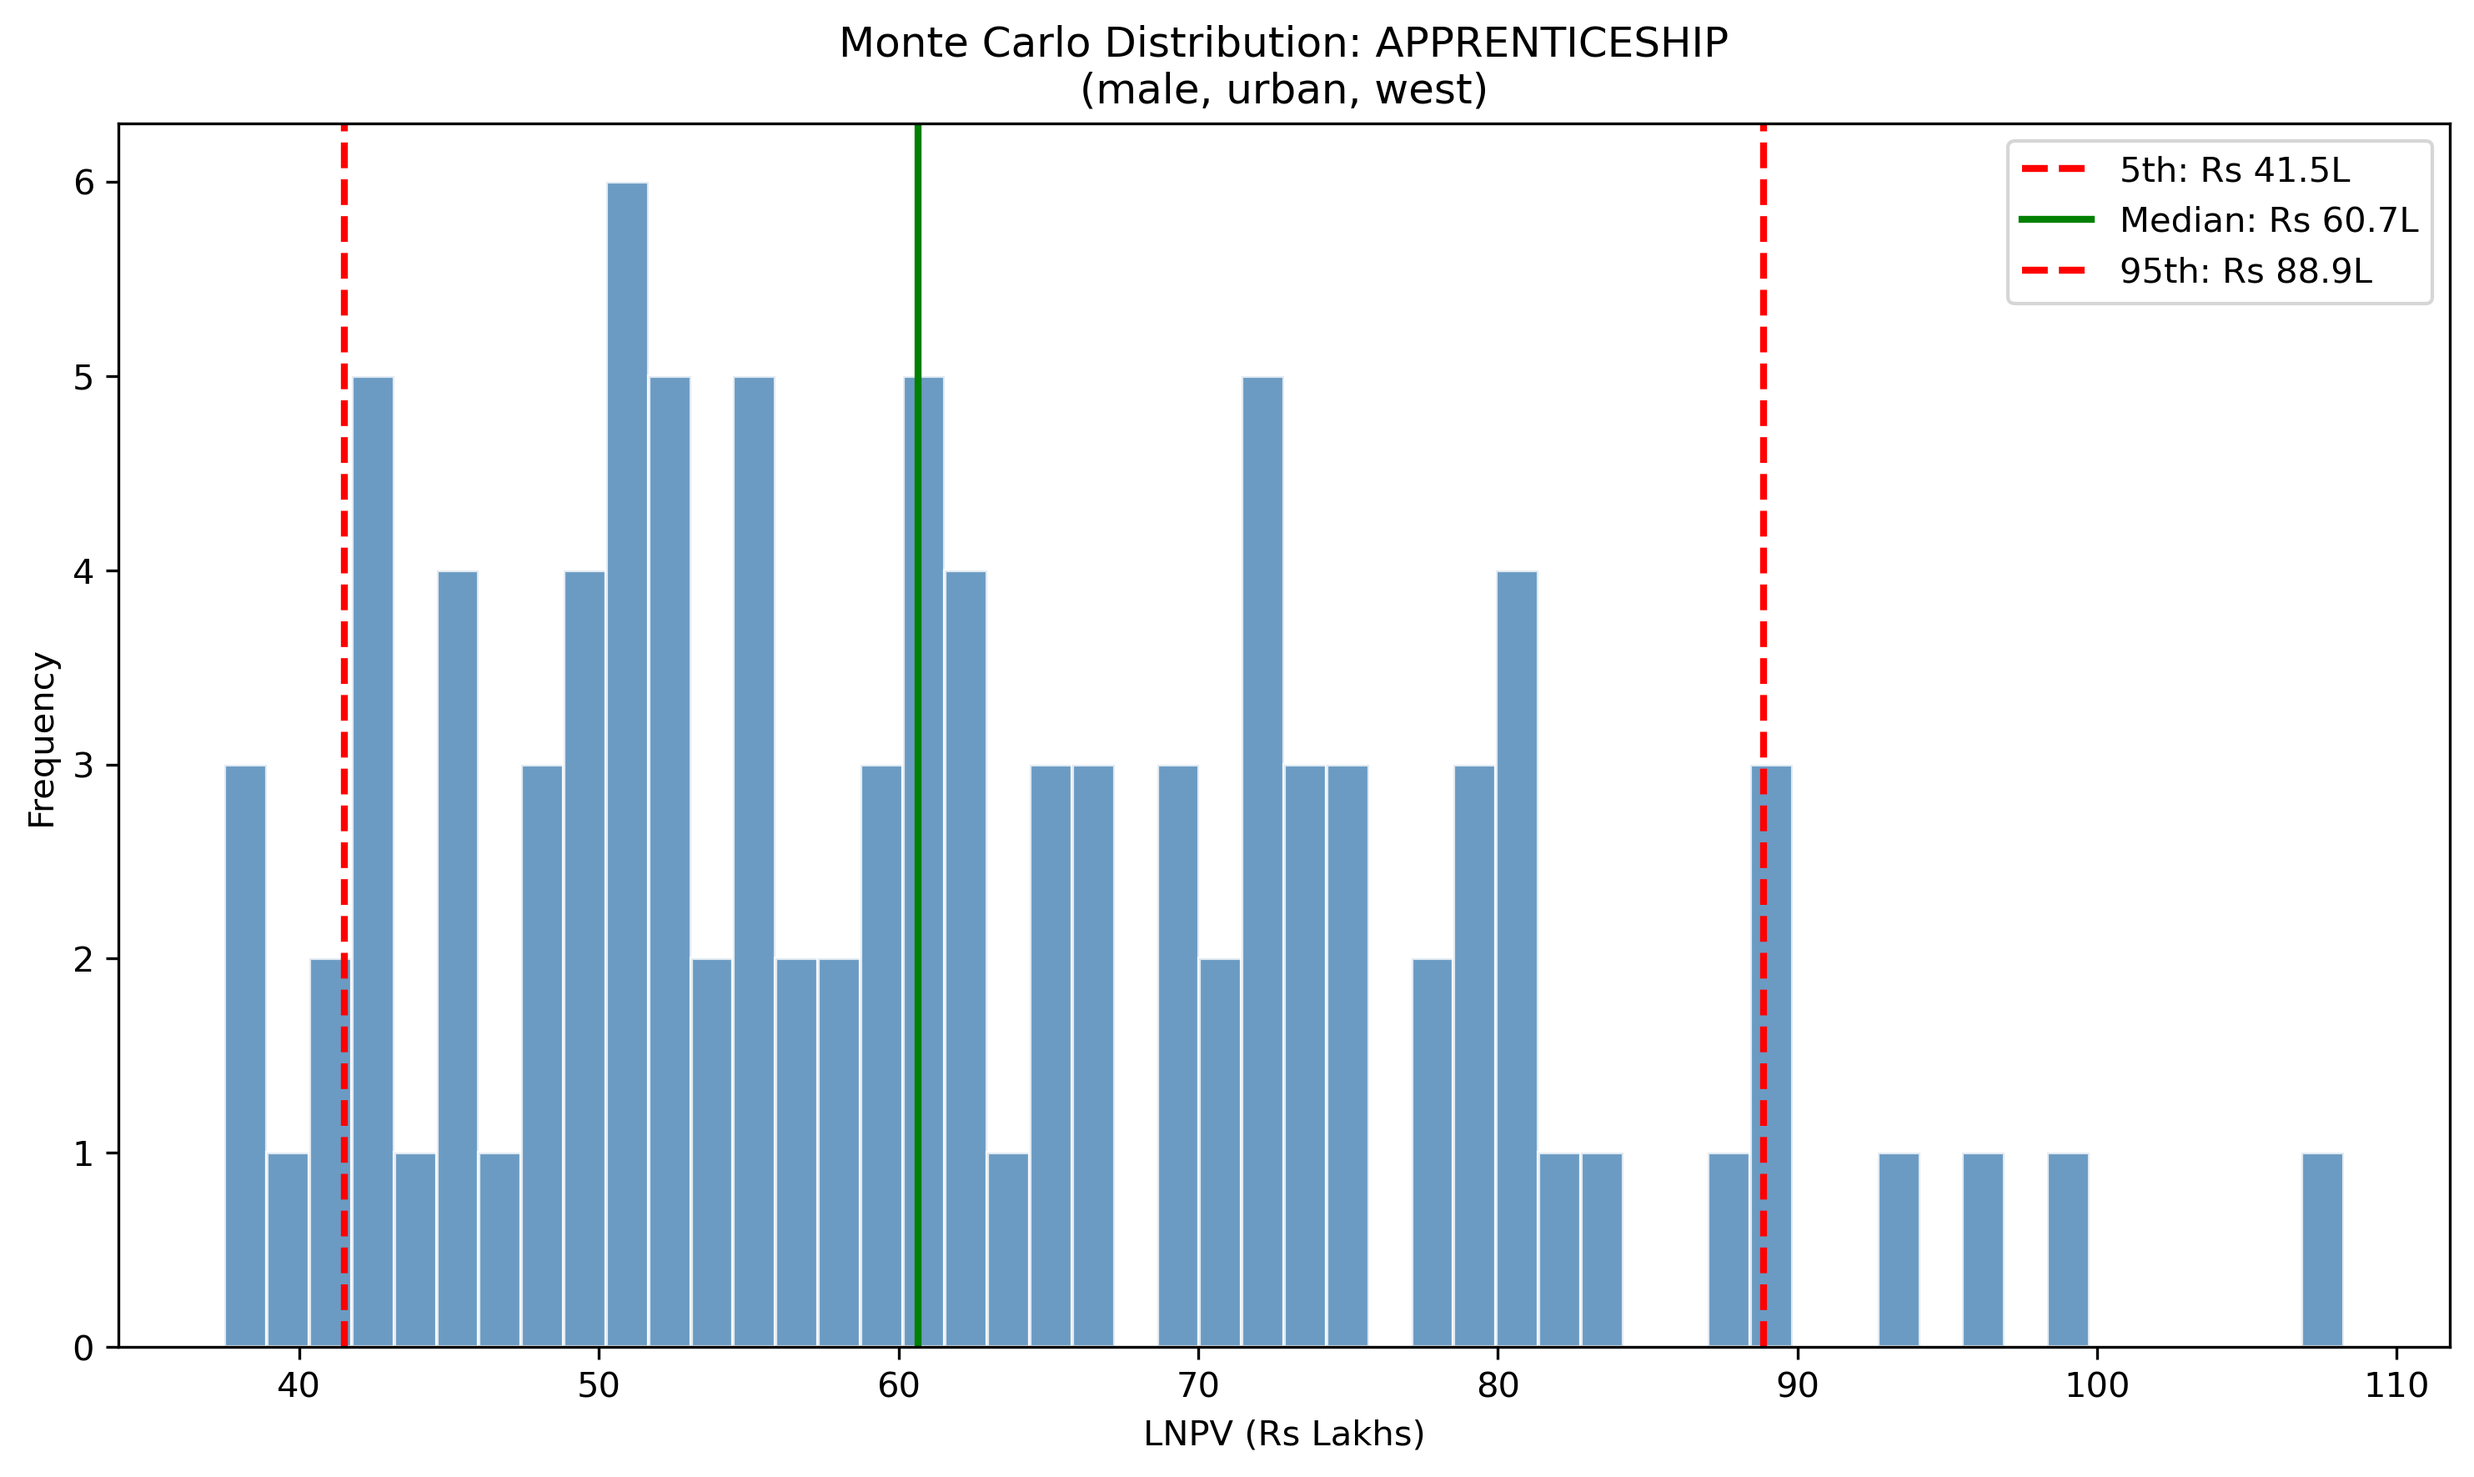
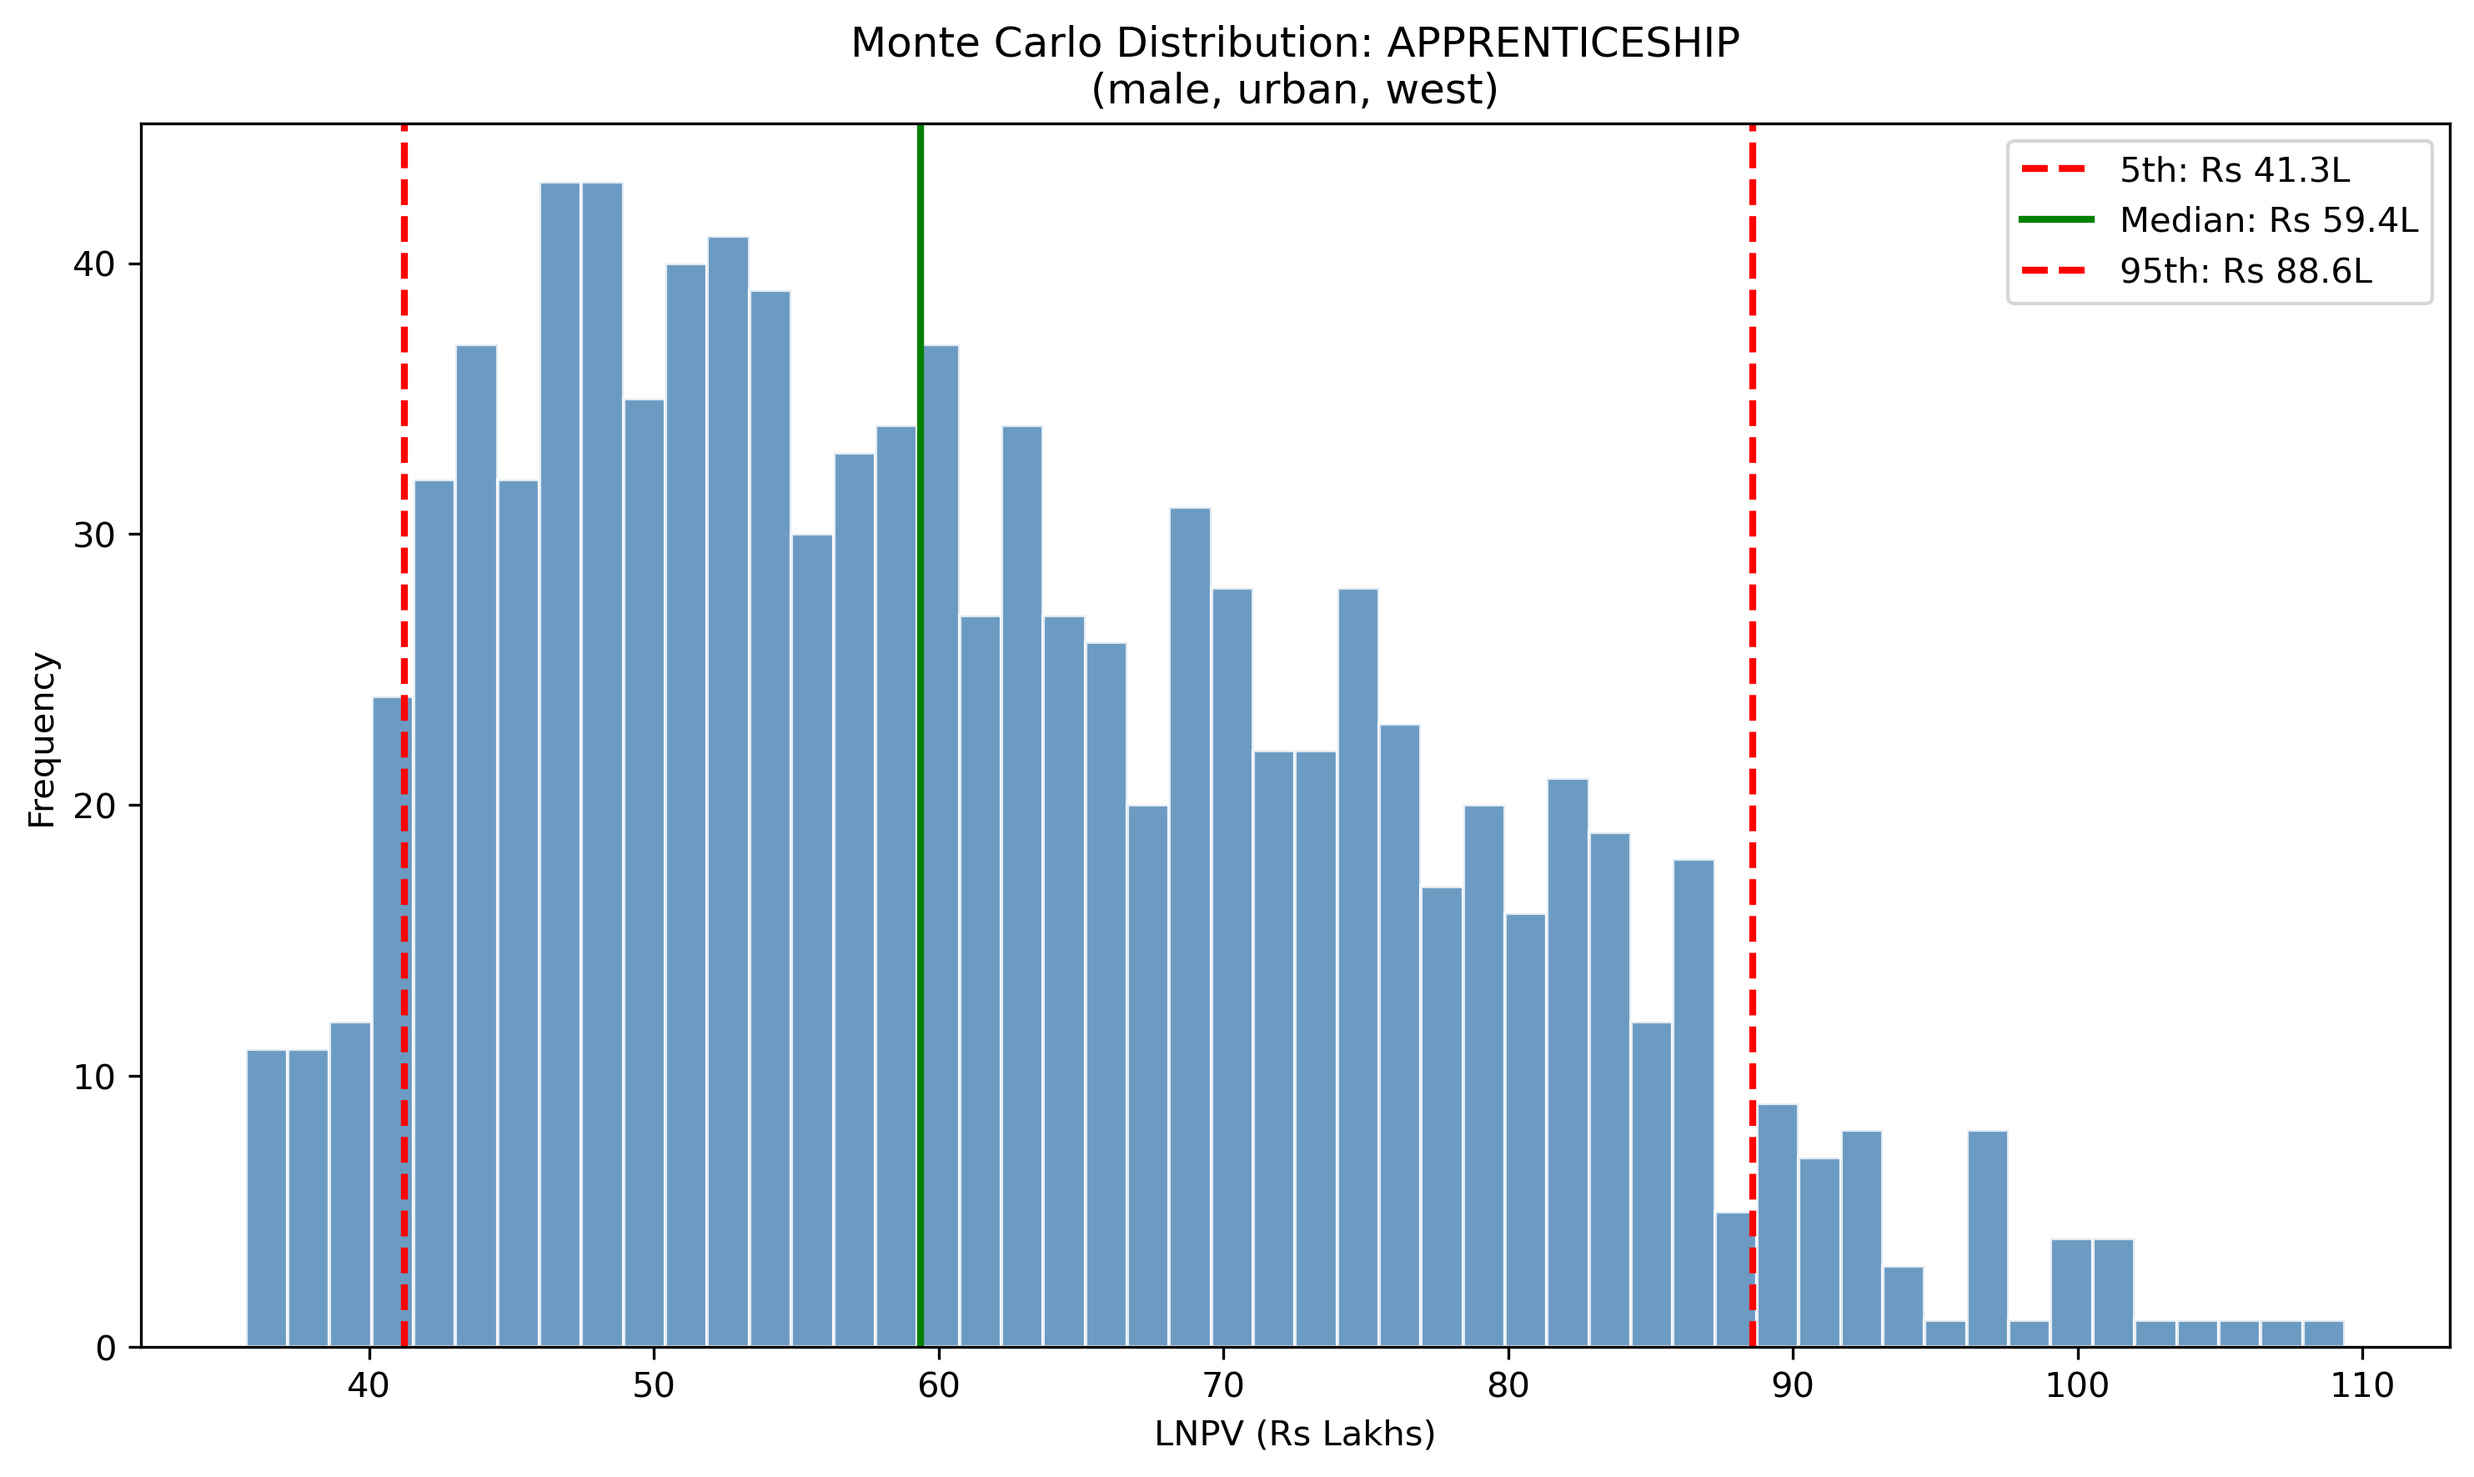
Regenerate sensitivity analysis figures with updated parameters
- Reran comprehensive sensitivity analysis with updated values:
  - P_FORMAL_APPRENTICE: 68%
  - P_FORMAL_NO_TRAINING: 9%
  - MINCER_RETURN_HS: 5.8%
  - APPRENTICE_INITIAL_PREMIUM: Rs 78,000
  - APPRENTICE_DECAY_HALFLIFE: 12 years
- Updated Monte Carlo histograms with new distributions
- Updated regional boxplot
- Updated validation decay trajectory (h=12 years)
- Regenerated validation outputs

diff --git a/src/outputs/validation/model_assumptions.md b/src/outputs/validation/model_assumptions.md
@@ -1,5 +1,5 @@
 # Model Assumptions Documentation
-Generated: 2026-01-24 13:12
+Generated: 2026-01-24 13:56
 
 ## Parameter Sources and Assumptions
 

diff --git a/src/outputs/validation/validation_report.md b/src/outputs/validation/validation_report.md
@@ -1,5 +1,5 @@
 # Milestone 4: Validation & QA Report
-Generated: 2026-01-24 13:12:14
+Generated: 2026-01-24 13:56:30
 
 ## Summary
 
